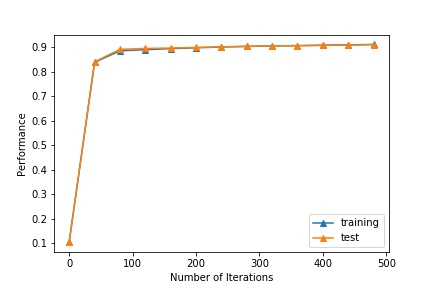
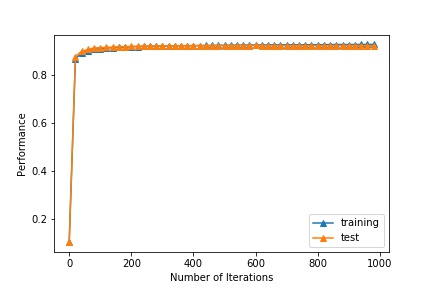
1

diff --git a/CSC411/Project_2/P2_Test/digits.py b/CSC411/Project_2/P2_Test/digits.py
@@ -163,7 +163,7 @@ def grad_descent(f, df, loss, x, y, init_t,ada_learning_rate = True, learning_cu
     while norm(t - prev_t) >  EPS and iter < max_iter:
         
         #plot learning curve
-        if learning_curve and iter % 20 == 0:
+        if learning_curve and iter % 5 == 0:
             num_iter.append(iter)
             performance_training.append(performance(x, y.T, t,print_output = False))
             performance_test.append(performance(tx, ty.T, t,print_output = False))
@@ -304,9 +304,27 @@ def part4():
     training_x, training_y, test_x, test_y = create_sets()     
     #create weights    
     np.random.seed(0)
-    Wb = np.random.normal(0.,0.5,[num_digits,input_size+1])
-    trained_Wb = grad_descent(forward, backward, NLL, training_x, training_y.T, Wb,momentum = False,learning_curve=True,figure = "part4f1", tx=test_x, ty=test_y.T)
-    
+    Wb = np.random.normal(0.,0.01,[num_digits,input_size+1])
+    trained_Wb = grad_descent(forward, backward, NLL, training_x, training_y.T, Wb,momentum = False,learning_curve=True, max_iter=1000, alpha=0.0001,figure = "part4f1", tx=test_x, ty=test_y.T)
+    trained_W = trained_Wb[:,:-1]
+
+    for i in range(trained_W.shape[0]):
+        plt.figure(i+1)
+        plt.imshow((trained_W[i,:]).reshape(28,28),interpolation='none', cmap=cm.coolwarm)
+        print "Digit "+str(i)+ "is: \n"
+        plt.show()
+        plt.imsave("figures/part4f"+str(i+2)+".jpg",(trained_W[i,:]).reshape(28,28), cmap=cm.coolwarm)
+
+    """
+    f, axarr = plt.subplots(5, 2)
+    for i in range(5):
+        for j in range(2):
+            axarr[i, j].imshow((trained_W[i*2+j,:]).reshape(28,28),interpolation='none', cmap=cm.coolwarm)
+            axarr[i, j].axes.get_xaxis().set_visible(False)
+            axarr[i, j].axes.get_yaxis().set_visible(False)
+    plt.savefig('figures/part1f2.jpg')
+    plt.show()
+    """
     return 0
 
 # Part 5
@@ -392,7 +410,7 @@ def part6():
     #Load the MNIST digit data
     training_x, training_y, test_x, test_y = create_sets()     
 
-    np.random.seed(0)
+    np.random.seed(1)
     #create weights
     Wb = np.random.normal(0.,0.001,[num_digits,input_size+1])
     trained_Wb = grad_descent(forward, backward, NLL, training_x, training_y.T, Wb,alpha=0.000001)
@@ -413,14 +431,15 @@ def part6():
     
     init_w1 = -1
     init_w2 = -1        
-    gd_traj = part6_grad_descent_2var(forward, backward, NLL, training_x, training_y.T, trained_Wb, init_w1,init_w2,w1_r,w1_c,w2_r,w2_c, alpha=0.0005,momentum = False)
-    mo_traj = part6_grad_descent_2var(forward, backward, NLL, training_x, training_y.T, trained_Wb, init_w1,init_w2,w1_r,w1_c,w2_r,w2_c, alpha=0.0001)
+    gd_traj = part6_grad_descent_2var(forward, backward, NLL, training_x, training_y.T, trained_Wb, init_w1,init_w2,w1_r,w1_c,w2_r,w2_c, alpha=0.0025,ada_learning_rate = False, momentum = False)
+    mo_traj = part6_grad_descent_2var(forward, backward, NLL, training_x, training_y.T, trained_Wb, init_w1,init_w2,w1_r,w1_c,w2_r,w2_c, alpha=0.0025,ada_learning_rate = False)
     
     CS = plt.contour(w1z, w2z, C, camp=cm.coolwarm)
     plt.plot([a for a, b in gd_traj], [b for a,b in gd_traj], 'yo-', label="No Momentum")
     plt.plot([a for a, b in mo_traj], [b for a,b in mo_traj], 'go-', label="Momentum")
     plt.legend(loc='top left')
     plt.title('Contour plot')
+    plt.savefig('figures/part6f1.jpg')
     plt.show()
     
 if __name__ == "__main__":
